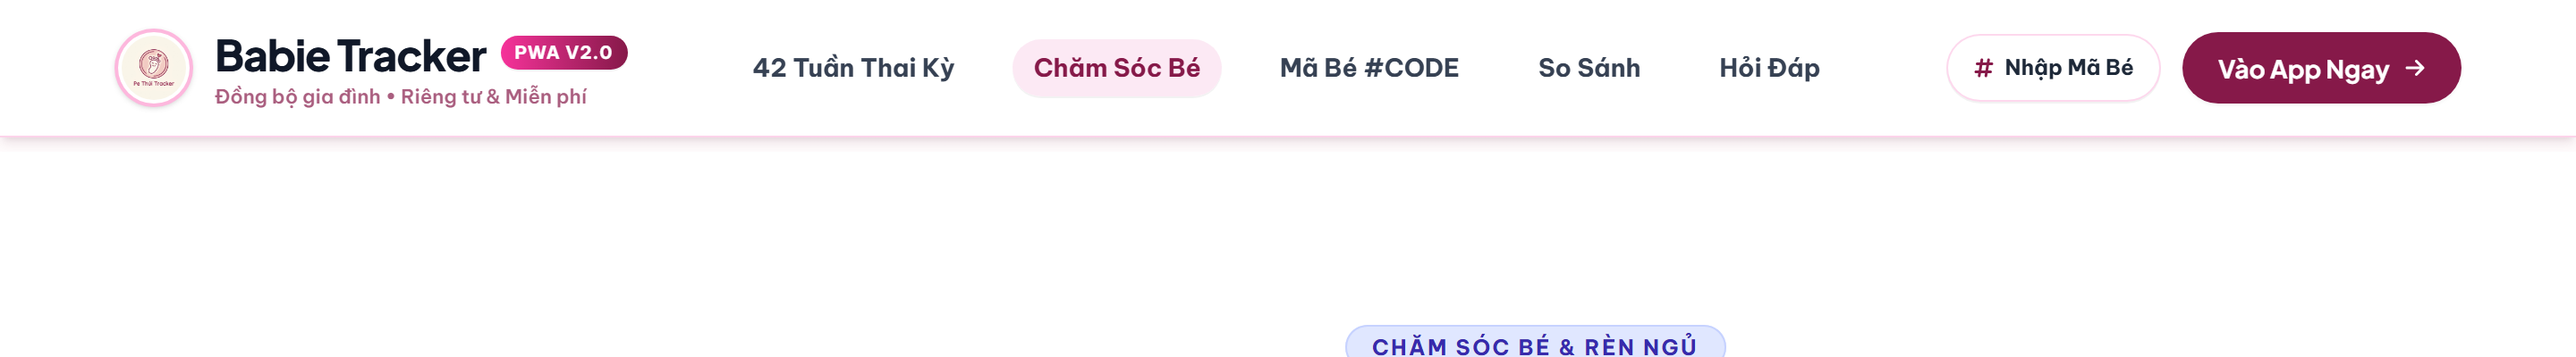
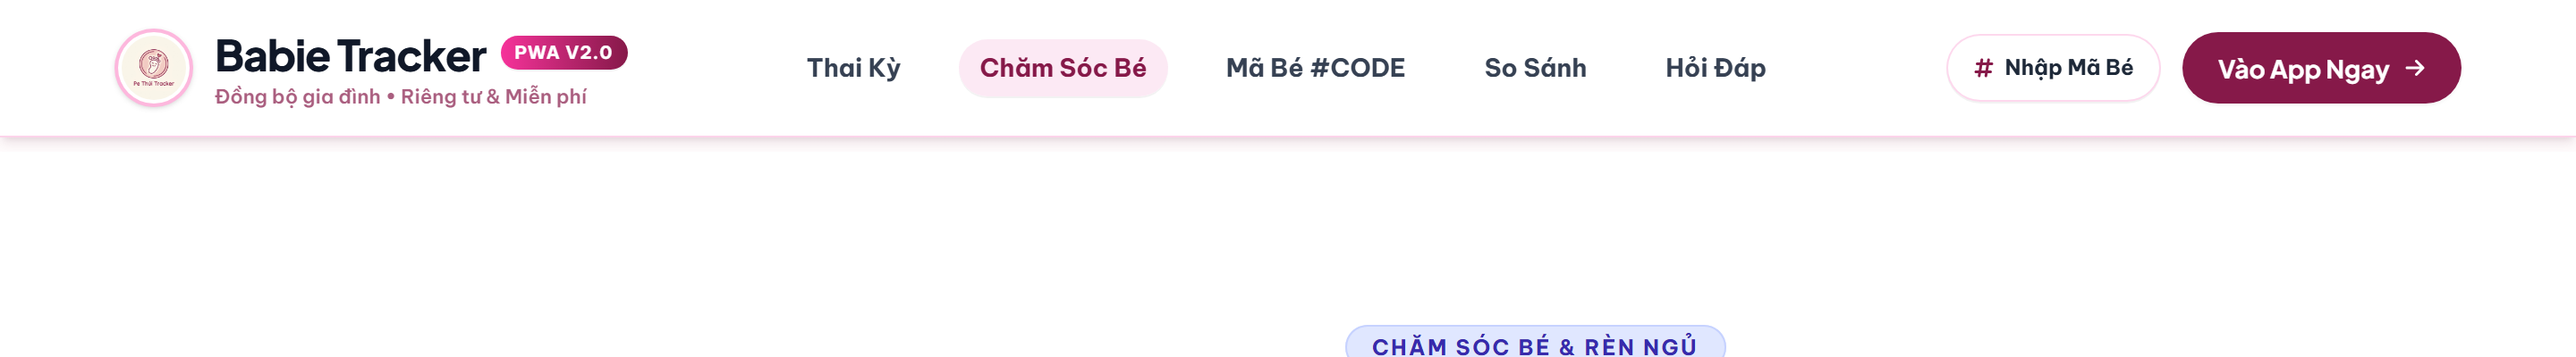
fix(landing): rename navbar link from '42 Tuần Thai Kỳ' to 'Thai Kỳ'

Changed region(s): [[0.2812, 0.15, 0.7188, 0.24]]

diff --git a/pe-thui/app/landing/page.js b/pe-thui/app/landing/page.js
@@ -128,7 +128,7 @@ export default function LandingPage() {
                                     : 'text-gray-700 hover:text-[#861949] hover:bg-pink-50/60'
                             }`}
                         >
-                            42 Tuần Thai Kỳ
+                            Thai Kỳ
                         </a>
                         <a 
                             href="#baby-care" 
